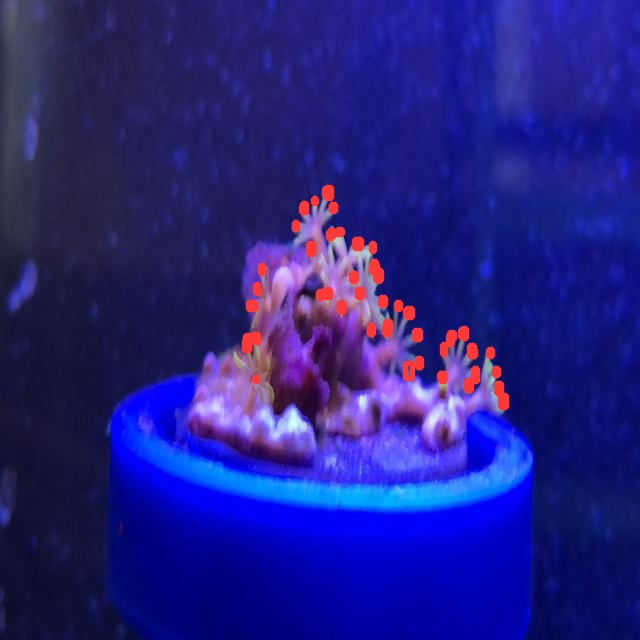
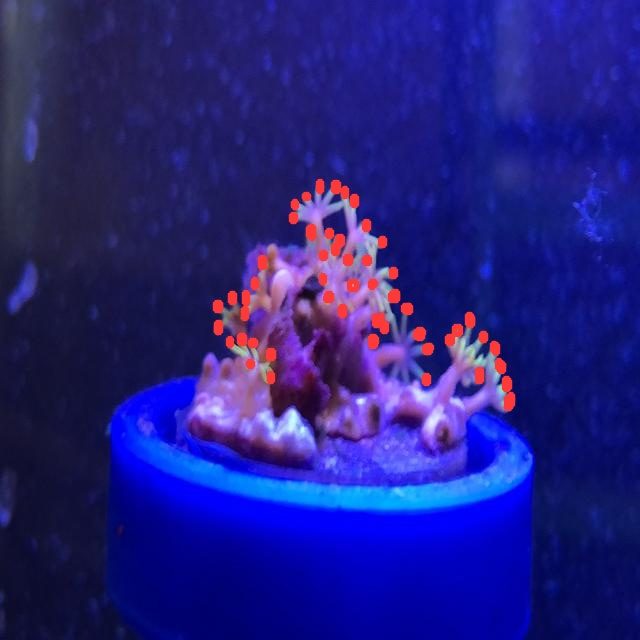
when count is pressed, markers are added to the image now (instead of being pre-labeled)

diff --git a/test.py b/test.py
@@ -14,14 +14,15 @@ import numpy as np
 import mysql.connector as mc
 import os
 from dotenv import load_dotenv
-from PIL import Image
+from PIL import Image as ImagePIL
 from datetime import date
+import matplotlib.pyplot as plt
 
 from Image2 import *
 from RecordInfoWindow import *
 
-from coral_count import count_tentacles_actual, get_count
-from coordinates import plot_points
+from coral_count import count_tentacles_actual, get_count, get_coordinates
+
 
 class Window(QWidget):
     
@@ -331,17 +332,12 @@ class Window(QWidget):
                 print("Failed To Connect to Database")
 
     def countTentacles(self):
-        # Get labeled image and set path of the Image2 to new path
-        labeled_image_path = count_tentacles_actual(self.photo.path)
-        self.photo.path = labeled_image_path
-        # coordinates_image = plot_points(self.photo.path)
-        # self.photo.path = coordinates_image
-
-        # Resize and add image to pixmap for display
-        self.photo.pix = QPixmap(self.photo.path)
-        self.photo.smaller_pixmap = self.photo.pix.scaled(self.photo.view.width(), self.photo.view.height())
-        self.photo.scene.clear()
-        self.photo.scene.addPixmap(self.photo.smaller_pixmap)
+        # Run the model on the currently displayed photo (in Image2)
+        count_tentacles_actual(self.photo.path)
+        img = ImagePIL.open(self.photo.path)
+        
+        # Add markers based on the labels generated by the model
+        self.placeInitialMarkers(img.width, img.height)
 
         # Get tentacle count
         self.count = get_count()
@@ -350,10 +346,21 @@ class Window(QWidget):
         # Delete the new resized.jpg created in the main folder (for some reason)
         if (os.path.exists('resized.jpg')):
             os.remove('resized.jpg')
+
+    def placeInitialMarkers(self, photo_width, photo_height):
+        coordinates = get_coordinates()
+
+        for pair in coordinates:
+            ellipse = QGraphicsEllipseItem(pair[0]*(photo_width/1.6), pair[1]*(photo_height/1.5), 15, 15)
+            ellipse.setBrush(QBrush(Qt.yellow))
+            ellipse.setFlag(QGraphicsItem.ItemIsMovable)
+            self.photo.scene.addItem(ellipse)
+            self.photo.marker_count += 1
+            self.photo.markers.append(ellipse)
     
     def addFullMarker(self):
         self.photo.add_marker()
-        self.countDisplay.setText("{0}".format(self.photo.marker_count+self.count))
+        self.countDisplay.setText("{0}".format(self.photo.marker_count))
 
 if __name__ == "__main__":
     app = QApplication(sys.argv)

diff --git a/coral_count.py b/coral_count.py
@@ -29,3 +29,21 @@ def get_count():
         lines = len(textfile.readlines()) 
 
     return lines
+
+def get_coordinates():
+    filename = os.getcwd() + '\yolov5\\runs\detect\exp\labels\\resized.txt'
+    file = open(filename, 'r')
+    file_lines = file.readlines()
+    large_array = []
+
+    for line in file_lines:
+        array = line.split(' ')
+        new_array = []
+
+        new_array.append(float(array[1]))   # x_center of bounding box
+        new_array.append(float(array[2]))   # y_center of bounding box
+        
+        large_array.append(new_array)
+
+    file.close()
+    return large_array
